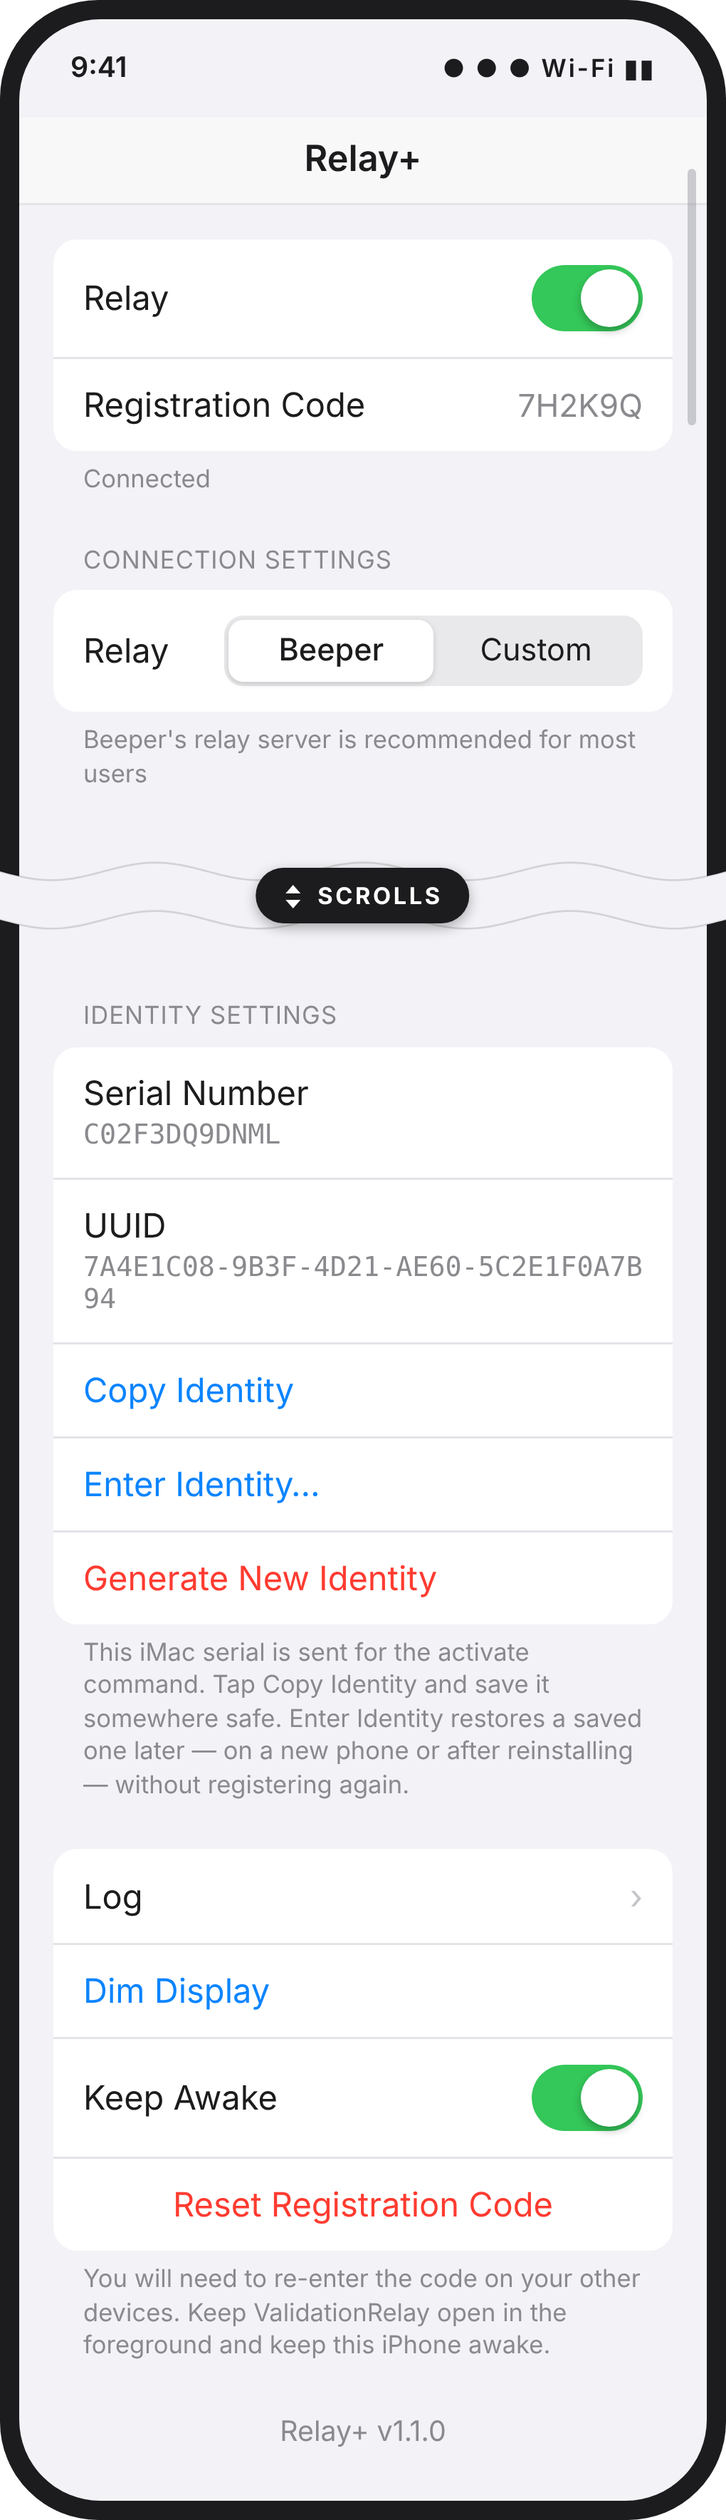
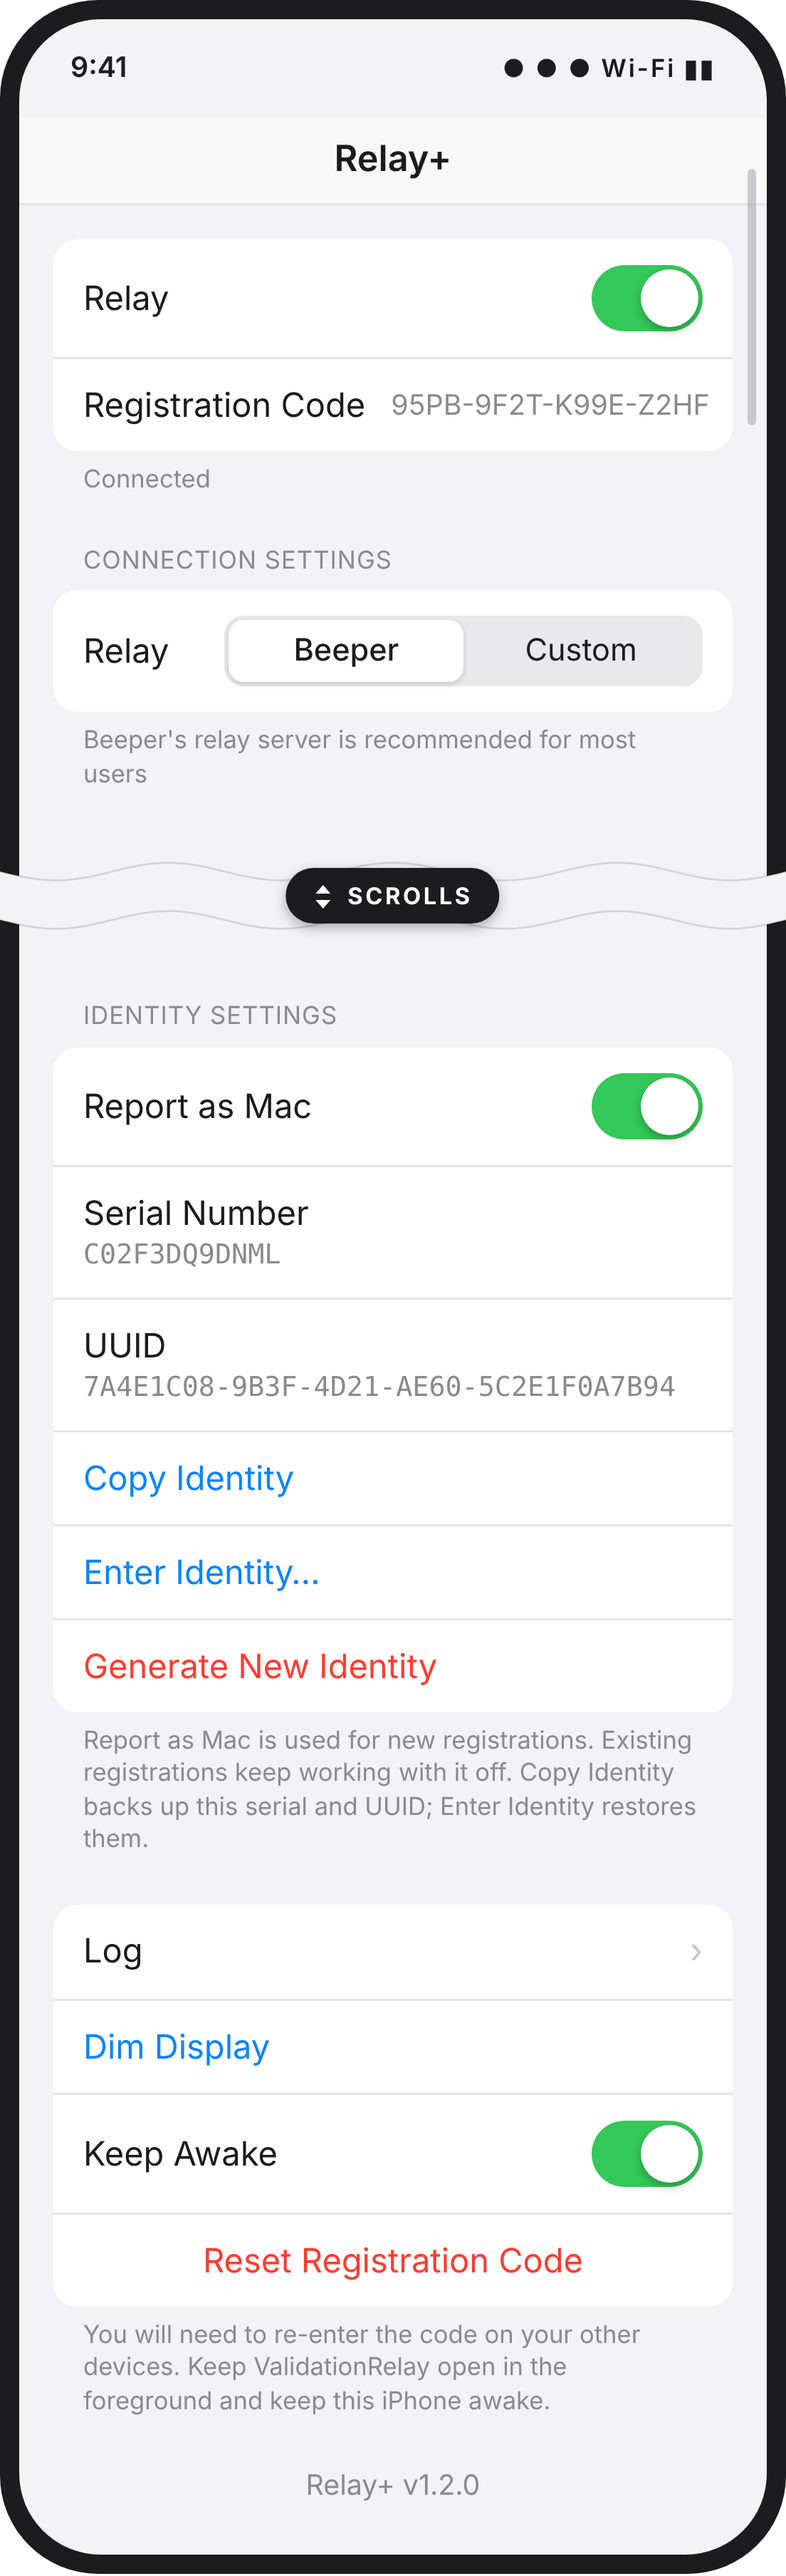
Mac identity toggle (#20)
* identity: add Report as Mac toggle for activation; version 1.2.0

OpenBubbles builds Apple's device-activation request from both bridge
answers: device class and model come from activate (a Mac), while the
serial number, OS version and build come from get-version-info. Reporting
the phone's values there yields an iMac13,1 claiming to run iOS, which
Apple's activation server refuses -- no push certificate, surfacing as
"Token not found".

Report as Mac makes get-version-info report the Mac identity's serial and
UUID plus macOS 13.6.4/22G513, so both answers describe the same machine.
hardware_version and software_name stay the phone's so OpenBubbles still
classifies the relay as an iPhone and keeps phone-number setup available.

Version bumped to 1.2.0 and the footer reads -test so testers can confirm
which build they are running.

* identity: trim the Report as Mac footer

Drop the mechanism explanation and the instruction to turn the toggle
back off after activating -- testing shows phone-number registration
works with it on, so turning it off only breaks activation again.

* identity: default Report as Mac on for new installs; 1.2.0

setDefaultIfNeeded picks the starting value once: a fresh install has no
registration yet and starts on, so it registers as a Mac without anything
to configure. An install that already has a registration starts off and
keeps reporting the phone's identity, so updating leaves a working
[…]

diff --git a/ValidationRelay/MacIdentity.swift b/ValidationRelay/MacIdentity.swift
@@ -20,6 +20,12 @@ struct MacIdentity: Equatable {
     let serialNumber: String
     let uniqueDeviceID: String
 
+    /// The macOS version and build reported alongside an iMac13,1 identity.
+    /// These must match the values in buildActivationPayload (Relay.swift), so
+    /// that `activate` and `get-version-info` describe the same machine.
+    static let macProductVersion = "13.6.4"
+    static let macBuildVersion = "22G513"
+
     // iMac13,1 model codes (the last 4 characters of a 12-character serial)
     private static let modelCodes = [
         "DNCT", "DNCR", "DNML", "DNMM", "F8QM", "F8QN", "F9RN",
@@ -65,6 +71,34 @@ enum MacIdentityStore {
     private static let uuidKey = "macIdentityUniqueDeviceID"
 
     private static var defaults: UserDefaults { .standard }
+
+    /// When on, get-version-info reports this identity's serial and UUID plus
+    /// the macOS version and build, instead of the phone's. OpenBubbles builds
+    /// Apple's activation request out of both bridge answers, so with this off
+    /// the request claims a Mac model with an iPhone serial and iOS version —
+    /// a profile Apple refuses. hardware_version and software_name are left as
+    /// the phone's, so OpenBubbles still treats the relay as an iPhone.
+    private static let enabledKey = "macIdentityEnabled"
+
+    static var isEnabled: Bool {
+        defaults.bool(forKey: enabledKey)
+    }
+
+    static func setEnabled(_ enabled: Bool) {
+        defaults.set(enabled, forKey: enabledKey)
+    }
+
+    /// Picks the starting value the first time the app runs, and never again.
+    /// A fresh install has no registration yet, so it starts on and registers
+    /// as a Mac. An install that already has a registration starts off and
+    /// keeps reporting the phone's identity, so updating never changes what an
+    /// existing registration is using. Once the user sets it themselves, their
+    /// choice stands.
+    static func setDefaultIfNeeded() {
+        if defaults.object(forKey: enabledKey) != nil { return }
+        let alreadyRegistered = !(defaults.string(forKey: "savedRegistrationCode") ?? "").isEmpty
+        defaults.set(!alreadyRegistered, forKey: enabledKey)
+    }
 
     static var current: MacIdentity? {
         guard let serial = defaults.string(forKey: serialKey),

diff --git a/ValidationRelay/Relay.swift b/ValidationRelay/Relay.swift
@@ -32,10 +32,10 @@ func getIdentifiers() -> [String: String]? {
         return nil
     }
 
-    // Report the phone's real identity. The Mac serial is sent only for the
-    // `activate` command (see buildActivationPayload); with that implemented,
-    // Apple accepts the real serial plus a persistent UUID again.
-    let identifiers = [
+    // Default: report the phone's real identity, which lets OpenBubbles offer
+    // phone-number registration. The Mac serial is sent only for `activate`
+    // (see buildActivationPayload).
+    var identifiers = [
         "hardware_version": machine,
         "software_name": "iPhone OS",
         "software_version": UIDevice.current.systemVersion,
@@ -43,6 +43,22 @@ func getIdentifiers() -> [String: String]? {
         "unique_device_id": getPersistentDeviceUUID(),
         "serial_number": serialNumber
     ]
+    // OpenBubbles builds Apple's device-activation request out of both bridge
+    // answers: the device class and model come from `activate` (a Mac), while
+    // the serial number, OS version and build come from here. Reporting the
+    // phone's values for those three produces an inconsistent profile — an
+    // iMac13,1 running iOS — which Apple's activation server refuses, leaving
+    // no push certificate and the misleading "Token not found" that follows.
+    // With this on, all four fields describe the same Mac as `activate`.
+    // hardware_version and software_name stay the phone's, so OpenBubbles
+    // still classifies the relay as an iPhone and keeps phone-number setup.
+    if MacIdentityStore.isEnabled {
+        let identity = MacIdentityStore.currentOrCreate()
+        identifiers["serial_number"] = identity.serialNumber
+        identifiers["unique_device_id"] = identity.uniqueDeviceID
+        identifiers["software_version"] = MacIdentity.macProductVersion
+        identifiers["software_build_id"] = MacIdentity.macBuildVersion
+    }
     return identifiers
 }
 

diff --git a/ValidationRelay/ContentView.swift b/ValidationRelay/ContentView.swift
@@ -16,6 +16,8 @@ struct ContentView: View {
     @AppStorage("customRelayURL") private var customRelayURL = ""
     
     @State private var macIdentity: MacIdentity? = nil
+    /// Backed by the same UserDefaults key MacIdentityStore.isEnabled reads.
+    @AppStorage("macIdentityEnabled") private var macIdentityEnabled = false
     @State private var pendingAction: PendingAction? = nil
     @State private var showingIdentityEntry = false
     @State private var copiedIdentity = false
@@ -100,6 +102,7 @@ struct ContentView: View {
                 
                 if let identity = macIdentity {
                     Section {
+                        Toggle("Report as Mac", isOn: $macIdentityEnabled)
                         VStack(alignment: .leading, spacing: 4) {
                             Text("Serial Number")
                             Text(identity.serialNumber)
@@ -126,7 +129,7 @@ struct ContentView: View {
                     } header: {
                         Text("Identity settings")
                     } footer: {
-                        Text("This iMac serial is sent for the activate command. Tap Copy Identity and save it somewhere safe. Enter Identity restores a saved one later — on a new phone or after reinstalling — without registering again.")
+                        Text("Report as Mac is used for new registrations. Existing registrations keep working with it off. Copy Identity backs up this serial and UUID; Enter Identity restores them.")
                     }
                 }
                 

diff --git a/ValidationRelay/ValidationRelayApp.swift b/ValidationRelay/ValidationRelayApp.swift
@@ -11,6 +11,11 @@ import SwiftUI
 struct ValidationRelayApp: App {
     @StateObject private var relayConnectionManager = RelayConnectionManager()
 
+    init() {
+        // Runs before any view reads the stored value.
+        MacIdentityStore.setDefaultIfNeeded()
+    }
+
     var body: some Scene {
         WindowGroup {
             ContentView(relayConnectionManager: relayConnectionManager)

diff --git a/README.md b/README.md
@@ -21,9 +21,10 @@ on top of v1.8 under his name.
 
 - **Current OpenBubbles compatibility.** Updated for the 11/1/2026 OpenBubbles
   release.
-- **Updating re-registers.** This version reports a different identity than
-  earlier builds, so after updating, reset the registration code and register
-  your devices once more.
+- **Report as Mac.** Apple's October 2026 change means a relay has to present a
+  Mac identity to register. New installs have this on and register as a Mac. An
+  existing registration keeps working with it off, so updating doesn't disturb
+  one that already works.
 - **The identity stays the same.** It's created once and kept. Apple
   activates each serial number only once, so if the identity is lost or
   changed, registrations made with it stop renewing and must be done again.
@@ -59,11 +60,19 @@ and run `./build.sh`.
 
 ## Identity
 
-Apple's October 2026 change means a relay has to present a **Mac** serial to
-register. This app generates and stores one iMac-format serial for that — there's
-no switch and nothing to configure. The one thing to do is tap **Copy Identity**
-once and keep the serial and UUID somewhere safe, because Apple activates each
-serial only once.
+Apple's October 2026 change means a relay has to present a **Mac** identity to
+register. The app generates and stores one, and keeps it.
+
+**Report as Mac** controls whether that identity is reported:
+
+- **New installs** have it **on** and register as a Mac. Nothing to set up.
+- **Existing registrations** have it **off**, so updating doesn't disturb a
+  registration that already works. Leave it off while it's working.
+- If you need to register again from scratch, turn it on and tap **Reset
+  Registration Code**.
+
+Apple activates each serial only once, so tap **Copy Identity** and keep the
+serial and UUID somewhere safe.
 
 Buttons under **Identity settings**:
 
@@ -72,9 +81,6 @@ Buttons under **Identity settings**:
   or moving to a new phone, so you don't have to register again.
 - **Generate New Identity** — makes a fresh one. You'll have to register again,
   because Apple activates each serial only once.
-
-**Updating from an earlier build** reports a different identity, so tap **Reset
-Registration Code** and register your devices once more.
 
 ## Related
 
